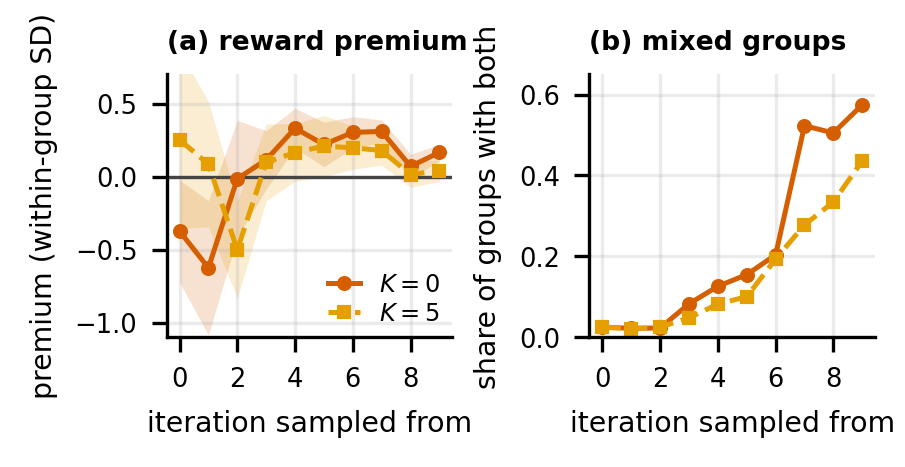
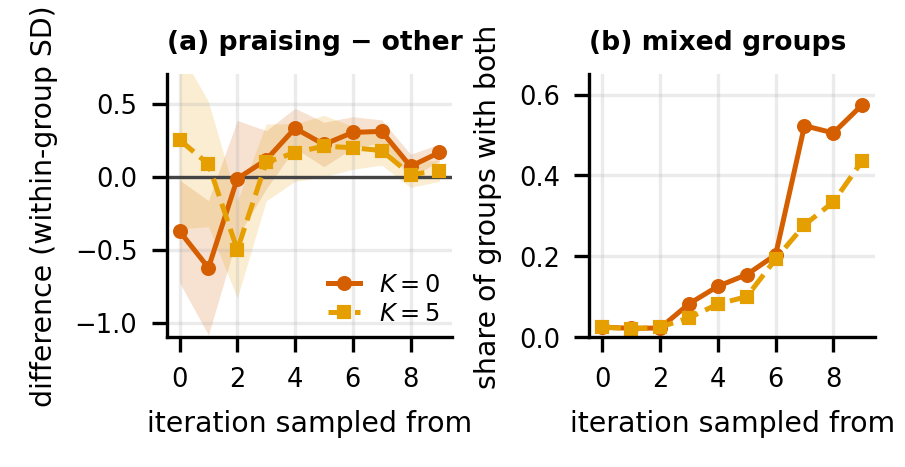
P1 Figure 12: panel (a) relabelled 'praising − other' / 'difference', no 'premium'

Changed region(s): [[0.0309, 0.0, 0.0619, 0.8694], [0.2475, 0.06, 0.526, 0.1199]]

diff --git a/papers/2026_grpo_lookahead_mi/render_paper_figures.py b/papers/2026_grpo_lookahead_mi/render_paper_figures.py
@@ -363,8 +363,8 @@ def praise_premium() -> Path:
     a.set_ylim(-1.1, 0.7)
     a.set_xticks(range(0, 10, 2))
     a.set_xlabel("iteration sampled from")
-    a.set_ylabel("premium (within-group SD)")
-    a.set_title("(a) reward premium", loc="left", fontweight="bold", fontsize=6.4)
+    a.set_ylabel("difference (within-group SD)")
+    a.set_title("(a) praising − other", loc="left", fontweight="bold", fontsize=6.4)
     a.legend(frameon=False, loc="lower right", fontsize=5.8, handlelength=1.3, borderaxespad=0.1,
              labelspacing=0.2)
     b.set_ylim(0, 0.65)
